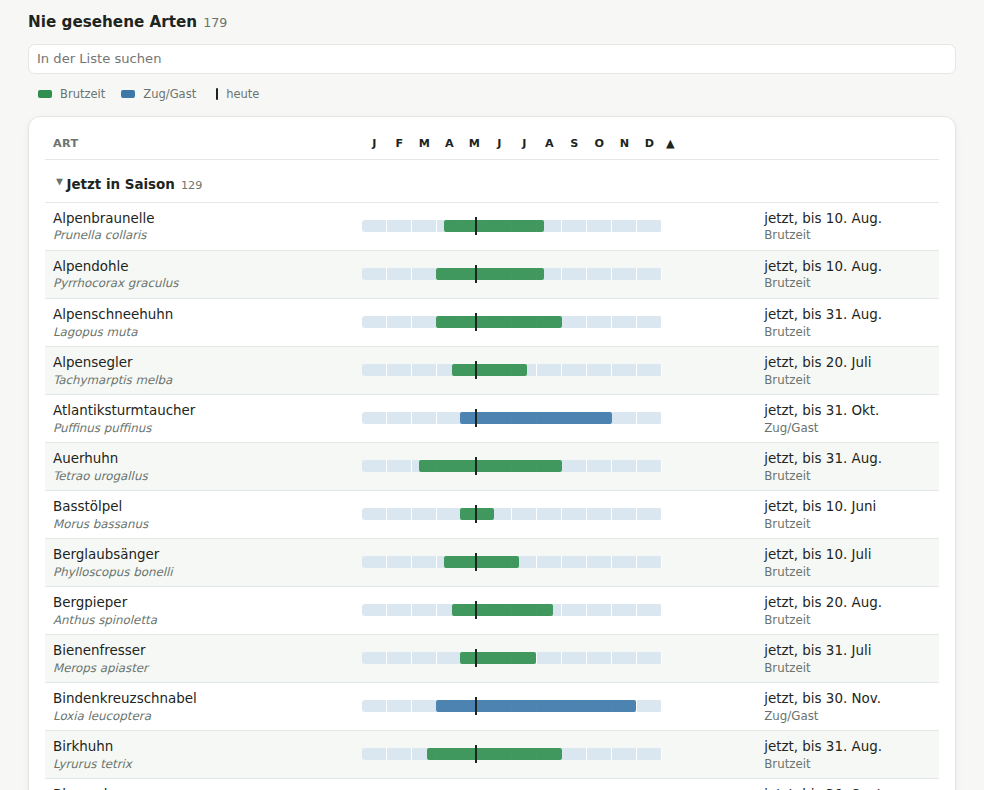
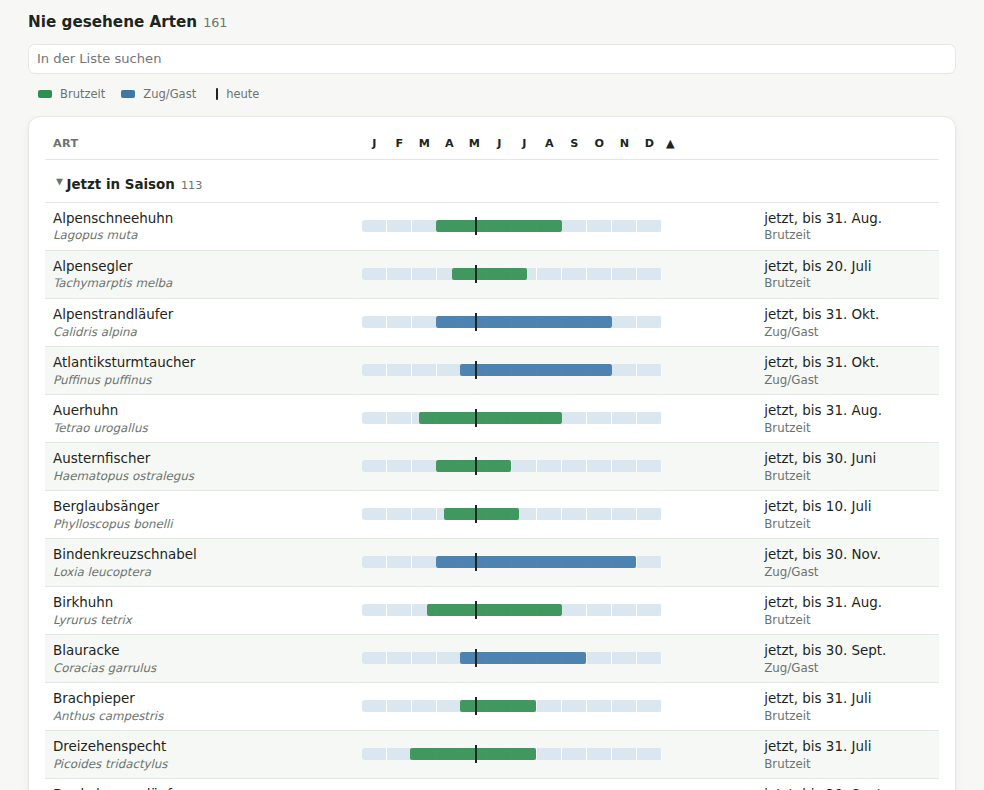
Docs: Spread the demo data across Germany and retake the screenshots
The fictional birder now also takes a few trips a year across Germany
(Wadden Sea, Müritz, Zingst, Alps, Helgoland, Federsee, Odertal,
Kaiserstuhl, Dümmer, Kühkopf, Chiemsee) with species only found there.
The regions screenshot opens the Alps trip.

diff --git a/tools/make_demo_export.py b/tools/make_demo_export.py
@@ -2,10 +2,11 @@
 
 Usage:  python tools/make_demo_export.py [output.json]      (default: export_demo.json)
 
-Nothing in it is a real observation: a fictional birder visits a handful of real Saxon birding
-spots over several years, more often at weekends and in spring, mostly
-in the morning, discovering new spots and finding scarcer species as the years go by; each species
-turns up according to its habitat, season and how common it is.
+Nothing in it is a real observation: a fictional birder from near Dresden visits real birding spots
+at home, more often at weekends and in spring, mostly in the morning, and takes a few birding trips
+across Germany each year (Wadden Sea, Müritz, Alps, Kaiserstuhl, ...). Over the years they discover
+new spots and find scarcer species; each species turns up according to its habitat, season and how
+common it is.
 The same seed always gives the same file.
 """
 import json
@@ -27,10 +28,27 @@ PLACES = [
     ("5", "Königsbrücker Heide", "Königsbrück (SN, BZ)", 51.302, 13.930, "open forest", 3, 2021),
     ("6", "Guttauer Teiche", "Malschwitz (SN, BZ)", 51.262, 14.548, "water open", 3, 2021),
     ("7", "Teichgebiet Niederspree", "Hähnichen (SN, GR)", 51.402, 14.803, "water forest", 2, 2022),
-    ("8", "Talsperre Quitzdorf", "Quitzdorf am See (SN, GR)", 51.282, 14.772, "water open coast", 2, 2022),
+    ("8", "Talsperre Quitzdorf", "Quitzdorf am See (SN, GR)", 51.282, 14.772, "water open", 2, 2022),
     ("9", "Bastei", "Lohmen (SN, PIR)", 50.962, 14.073, "forest rock", 2, 2023),
     ("10", "Auwald Leipzig", "Leipzig (SN, L)", 51.340, 12.340, "forest water", 1, 2024),
     ("11", "Fichtelberg", "Oberwiesenthal (SN, ERZ)", 50.429, 12.954, "mountain forest", 1, 2025),
+]
+
+# birding trips: first day, number of days, places (id, name, municipality, lat, lon, habitats)
+TRIPS = [
+    ("2019-09-14", 3, [("30", "Hauke-Haien-Koog", "Reußenköge (SH, NF)", 54.605, 8.870, "coast water open")]),
+    ("2020-05-21", 3, [("31", "Müritz-Nationalpark, Boeker Mühle", "Rechlin (MV, MSE)", 53.378, 12.782, "water forest open")]),
+    ("2021-10-02", 4, [("32", "Pramort", "Zingst (MV, VR)", 54.438, 12.790, "coast open"),
+                       ("33", "Großer Werder", "Zingst (MV, VR)", 54.450, 12.703, "coast water")]),
+    ("2022-06-18", 4, [("34", "Jenner", "Schönau am Königssee (BY, BGL)", 47.577, 13.022, "alpine mountain rock forest")]),
+    ("2022-10-08", 3, [("35", "Helgoland, Oberland", "Helgoland (SH, PI)", 54.183, 7.886, "sea coast")]),
+    ("2023-04-29", 3, [("36", "Federsee", "Bad Buchau (BW, BC)", 48.068, 9.617, "water open forest")]),
+    ("2023-10-21", 2, [("37", "Unteres Odertal, Criewen", "Schwedt/Oder (BB, UM)", 53.017, 14.233, "water open")]),
+    ("2024-05-09", 4, [("38", "Badberg", "Vogtsburg im Kaiserstuhl (BW, FR)", 48.101, 7.665, "south open forest")]),
+    ("2024-09-28", 2, [("39", "Dümmer, Hüde", "Hüde (NI, DH)", 52.490, 8.345, "water open coast")]),
+    ("2025-03-15", 2, [("40", "Kühkopf-Knoblochsaue", "Stockstadt am Rhein (HE, GG)", 49.825, 8.415, "water forest")]),
+    ("2025-11-08", 3, [("30", "Hauke-Haien-Koog", "Reußenköge (SH, NF)", 54.605, 8.870, "coast water open")]),
+    ("2026-04-11", 3, [("41", "Hirschauer Bucht", "Grabenstätt (BY, TS)", 47.842, 12.508, "water open")]),
 ]
 
 # latin, habitats, season, commonness 1 (everywhere) .. 5 (rare)
@@ -199,6 +217,33 @@ Emberiza citrinella|open|r|2
 Emberiza hortulana|open|s|5
 Emberiza schoeniclus|water open|r|2
 Larus argentatus / michahellis|water coast|r|3
+Somateria mollissima|coast sea|r|2
+Recurvirostra avosetta|coast|s|2
+Calidris canutus|coast|p|2
+Calidris alba|coast sea|p|2
+Limosa lapponica|coast|p|2
+Pluvialis squatarola|coast|p|2
+Arenaria interpres|coast sea|p|3
+Thalasseus sandvicensis|coast|s|3
+Branta bernicla|coast|w|2
+Morus bassanus|sea|r|1
+Uria aalge|sea|r|1
+Alca torda|sea|r|2
+Rissa tridactyla|sea|r|1
+Fulmarus glacialis|sea|r|2
+Pyrrhocorax graculus|alpine|r|1
+Prunella collaris|alpine|s|2
+Tichodroma muraria|alpine|r|3
+Aquila chrysaetos|alpine|r|3
+Lagopus muta|alpine|r|4
+Turdus torquatus|alpine|s|2
+Anthus spinoletta|alpine|s|2
+Phylloscopus bonelli|alpine|s|3
+Merops apiaster|south|s|1
+Emberiza cirlus|south|r|2
+Otus scops|south|s|4
+Crex crex|water open|s|4
+Aythya nyroca|water|s|5
 """
 ESCAPE = ("Cygnus atratus", "Trauerschwan", "water", "r", 5)  # a captivity escape, hidden by default
 
@@ -247,6 +292,7 @@ def generate():
                         set(habitats.split()), season, int(tier)))
     species.append(((ESCAPE[0], ESCAPE[1], 999, "escaped"), set(ESCAPE[2].split()), ESCAPE[3], ESCAPE[4]))
 
+    trips = [(date.fromisoformat(first), days, places) for first, days, places in TRIPS]
     out = []
     d = FIRST
     while d <= LAST:
@@ -258,7 +304,11 @@ def generate():
         skill = 0.35 + 0.65 * min(1, (d.year - FIRST.year) / 6)
         known = [p for p in PLACES if p[7] <= d.year]
         visits = []
-        if rnd.random() < chance:
+        trip = next((t for t in trips if t[0] <= d < t[0] + timedelta(days=t[1])), None)
+        if trip:
+            # trip days: out early at every place of the trip
+            visits = [(p, rnd.randint(330, 480) + i * 180) for i, p in enumerate(trip[2])]
+        elif rnd.random() < chance:
             n = 2 if weekend and rnd.random() < 0.4 else 1
             picks = rnd.choices(known, weights=[p[6] for p in known], k=n)
             # weekends start early in the morning, weekdays after work

diff --git a/tools/make_screenshots.py b/tools/make_screenshots.py
@@ -108,8 +108,8 @@ def main():
 
             # Regionen: where you are out in which month, with a cell opened
             page = open_page(hash="#regions")
-            # a cell with a handful of species, so the panel stays short
-            page.evaluate("""() => [...document.querySelectorAll('td[data-rm]')].find(td => +td.textContent >= 3 && +td.textContent <= 4).click()""")
+            # the Alps trip: a short panel with species you only see there
+            page.locator("table.heat.rm tr", has_text="Berchtesgadener Land").locator("td[data-rm]").first.click()
             page.wait_for_timeout(200)
             shot(page, "regions.png", section(page, "h2:has(#rm-level)", "#rm-cell"))
 

diff --git a/README.md b/README.md
@@ -109,7 +109,7 @@ Beides steckt fertig aufbereitet in `species_reference.json`.
 | --- | --- |
 | `lifelist.py` | liest den Export und erstellt die HTML-Seite |
 | `template.html` | Vorlage der Seite (HTML und CSS) mit den Platzhaltern `__DATA_JSON__`, `__APP_JS__`, `__VENDOR_JS__`, `__VENDOR_CSS__` |
-| `src/*.js` | JavaScript der Seite, aufgeteilt nach Tab und Thema |
+| `src/*.js` | JavaScript der Seite, aufgeteilt nach Tab und Thema (`counties.js`: Namen der Landkreise zu ornithos Kreiskürzeln) |
 | `vendor/` | mitgelieferte Bibliotheken Leaflet, Leaflet.markercluster und Chart.js |
 | `species_reference.json` | Artnamen und Saisonzeiträume |
 | `tests/` | automatische Tests mit erfundenen Beispieldaten |
@@ -162,7 +162,7 @@ Zum Ausprobieren lässt sich die exe auch selbst bauen: unter Windows `python bu
 
 ### Beispieldaten und Screenshots
 
-- `tools/make_demo_export.py` erzeugt einen erfundenen, aber realistisch wirkenden Export (`export_demo.json`): ein fiktiver Beobachter an echten sächsischen Beobachtungsorten, über mehrere Jahre. Gut zum Ausprobieren ohne eigene Daten: `python tools/make_demo_export.py`, dann `python lifelist.py --source export_demo.json`.
+- `tools/make_demo_export.py` erzeugt einen erfundenen, aber realistisch wirkenden Export (`export_demo.json`): ein fiktiver Beobachter aus der Nähe von Dresden, über mehrere Jahre an echten Beobachtungsorten, mit Reisen quer durch Deutschland. Gut zum Ausprobieren ohne eigene Daten: `python tools/make_demo_export.py`, dann `python lifelist.py --source export_demo.json`.
 - `tools/make_screenshots.py` erstellt daraus die Bilder in `docs/screenshots/` (braucht Playwright, siehe Tests). Mit `--map` kommt ein Bild der Karte dazu, dafür braucht es Internet für die Kartenkacheln.
 
 ### Referenzdaten und Bibliotheken pflegen
